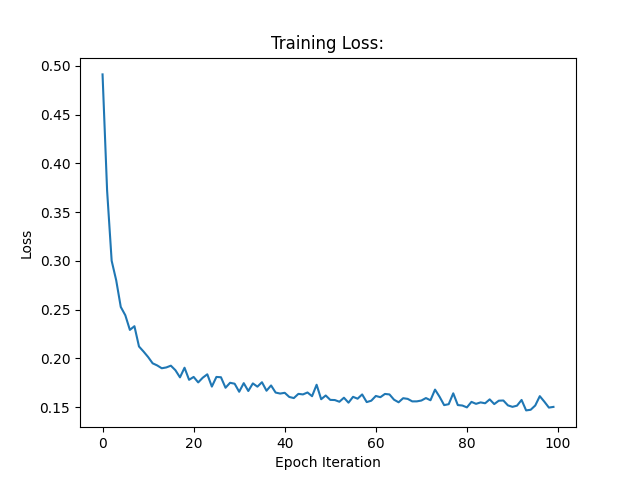
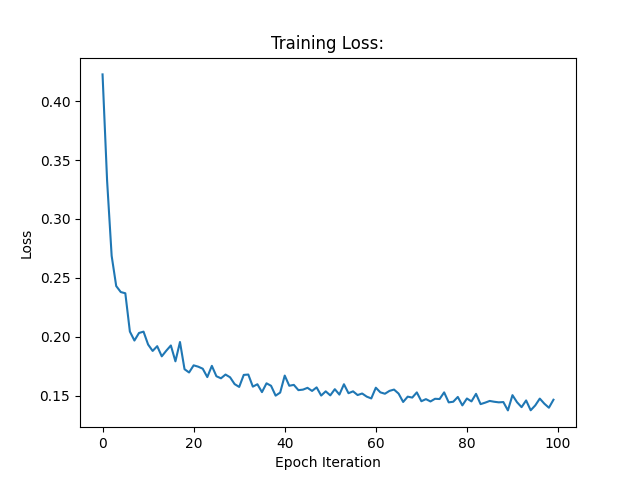
10/03/2020-Atkins-10:23:42 Completed dense MLP testing and training functions

diff --git a/project/test.py b/project/test.py
@@ -1,0 +1,46 @@
+import tensorflow as tf
+import numpy as np
+from project.train import checkpoint_dir, results_folder
+import matplotlib.pyplot as plt
+
+def test(x_test, y_test, checkpoint_file):
+    # Parameters:
+    input_nodes = np.shape(x_test)[1]
+    hidden_layer_1 = 32
+    hidden_layer_2 = 64
+    output_layer = 10
+
+    # Defining Layers:
+    # Placeholder for batch of inputs:
+    x = tf.placeholder(tf.float32, [None, input_nodes])
+    # Layer 1 variables:
+    W1 = tf.Variable(tf.truncated_normal([input_nodes, hidden_layer_1], stddev=0.15))
+    b1 = tf.Variable(tf.zeros([hidden_layer_1]))
+    y1 = tf.math.sigmoid(tf.matmul(x, W1) + b1)
+    # Layer 2 variables:
+    W2 = tf.Variable(tf.truncated_normal([hidden_layer_1, hidden_layer_2], stddev=0.15))
+    b2 = tf.Variable(tf.zeros([hidden_layer_2]))
+    y2 = tf.matmul(y1, W2) + b2
+    # Layer 3 variables:
+    W3 = tf.Variable(tf.truncated_normal([hidden_layer_2, output_layer], stddev=0.15))
+    b3 = tf.Variable(tf.zeros([output_layer]))
+    y = tf.matmul(y2, W3) + b3
+    # Placeholder for batch of targets:
+    y_ = tf.placeholder(tf.float32, [None, output_layer])
+
+    # For weight saving:
+    saver = tf.train.Saver()
+    checkpoint = checkpoint_dir + checkpoint_file
+
+    with tf.Session() as sess:
+        saver.restore(sess, checkpoint)
+
+        test_output = sess.run(y, feed_dict={x: x_test, y_: y_test})
+        predictions = np.argmax(test_output, axis=1)
+        targets = np.argmax(y_test, axis=1)
+        accuracy = np.sum(np.equal(predictions, targets))/test_output.shape[0] * 100
+
+        print(f"Testing Accuracy = {accuracy}%")
+
+
+    return

diff --git a/project/train.py b/project/train.py
@@ -10,6 +10,7 @@ def train(x_train, y_train, learning_rate, num_epochs, batch_size, checkpoint_fr
     # Parameters:
     input_nodes = np.shape(x_train)[1]
     hidden_layer_1 = 32
+    hidden_layer_2 = 64
     output_layer = 10
 
     # Defining Layers:
@@ -19,10 +20,14 @@ def train(x_train, y_train, learning_rate, num_epochs, batch_size, checkpoint_fr
     W1 = tf.Variable(tf.truncated_normal([input_nodes, hidden_layer_1], stddev=0.15))
     b1 = tf.Variable(tf.zeros([hidden_layer_1]))
     y1 = tf.math.sigmoid(tf.matmul(x, W1) + b1)
-    # layer 2 variables:
-    W2 = tf.Variable(tf.truncated_normal([hidden_layer_1, output_layer], stddev=0.15))
-    b2 = tf.Variable(tf.zeros([output_layer]))
-    y = tf.matmul(y1, W2) + b2
+    # Layer 2 variables:
+    W2 = tf.Variable(tf.truncated_normal([hidden_layer_1, hidden_layer_2], stddev=0.15))
+    b2 = tf.Variable(tf.zeros([hidden_layer_2]))
+    y2 = tf.matmul(y1, W2) + b2
+    # Layer 3 variables:
+    W3 = tf.Variable(tf.truncated_normal([hidden_layer_2, output_layer], stddev=0.15))
+    b3 = tf.Variable(tf.zeros([output_layer]))
+    y = tf.matmul(y2, W3) + b3
     # Placeholder for batch of targets:
     y_ = tf.placeholder(tf.float32, [None, output_layer])
 

diff --git a/project/main.py b/project/main.py
@@ -1,18 +1,21 @@
 from data_management.data_manipulation import import_MNIST, load_MNIST, load_MNIST_flat
 from project.train import train
+from project.test import test
 
 
 if __name__ == "__main__":
-    _train = 1
+    _train = 0
 
     (x_train, y_train), (x_test, y_test) = load_MNIST_flat()
 
     # Training Parameters:
     learning_rate = 0.001
-    num_epochs = 100
+    num_epochs = 500
     num_models = 10
     batch_size = 64
     # Testing Parameters:
-    checkpoint_file = "epoch_1990.ckpt"
+    checkpoint_file = "epoch_90.ckpt"
     if _train:
         train(x_train, y_train, learning_rate, num_epochs, batch_size, checkpoint_frequency=10, num_models=num_models)
+    else:
+        test(x_test, y_test, checkpoint_file)
